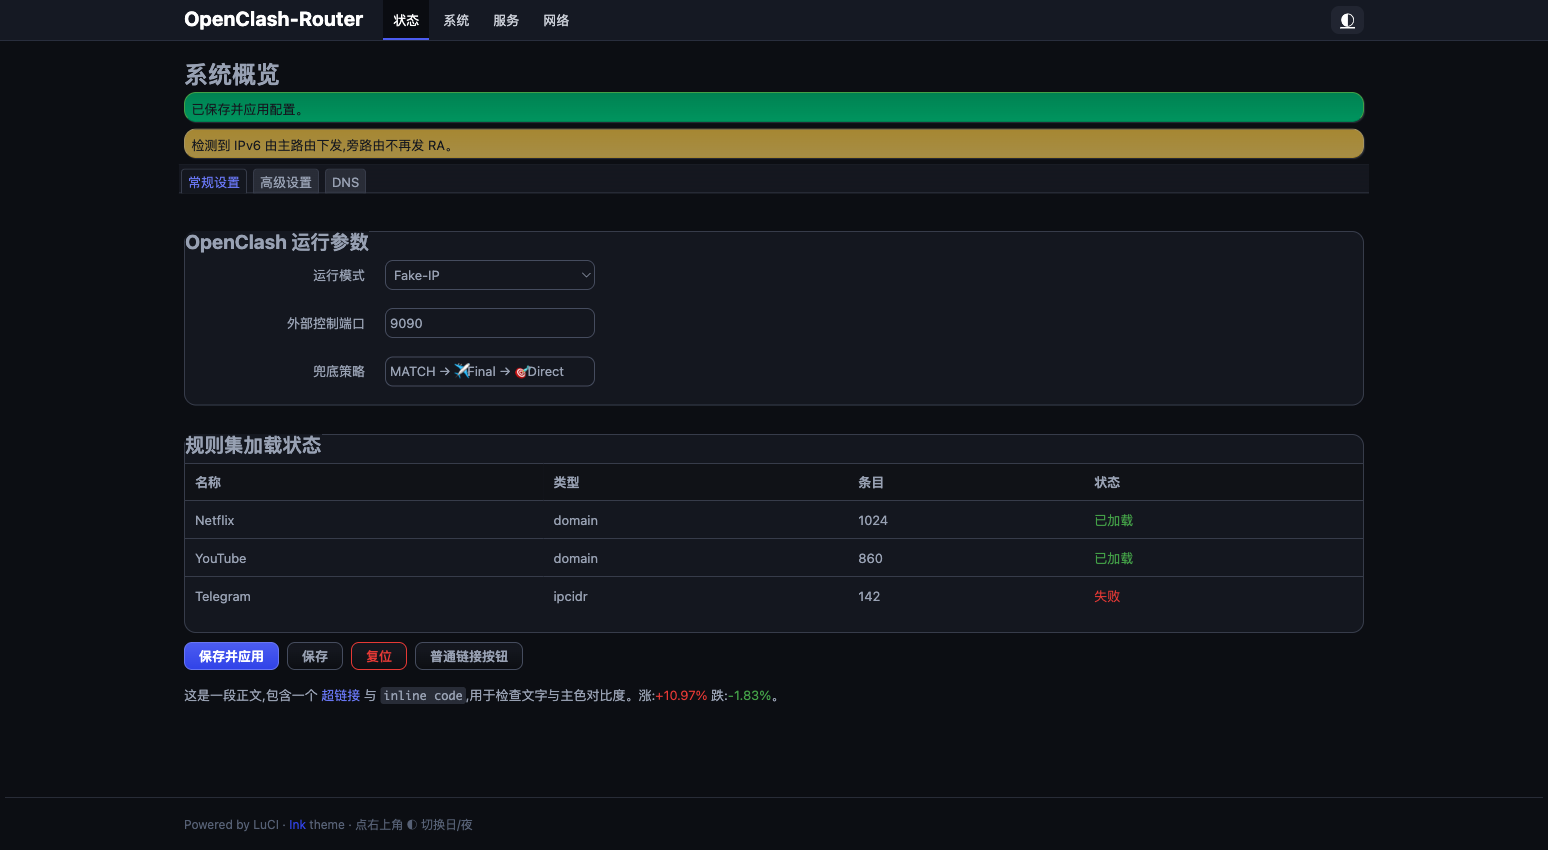
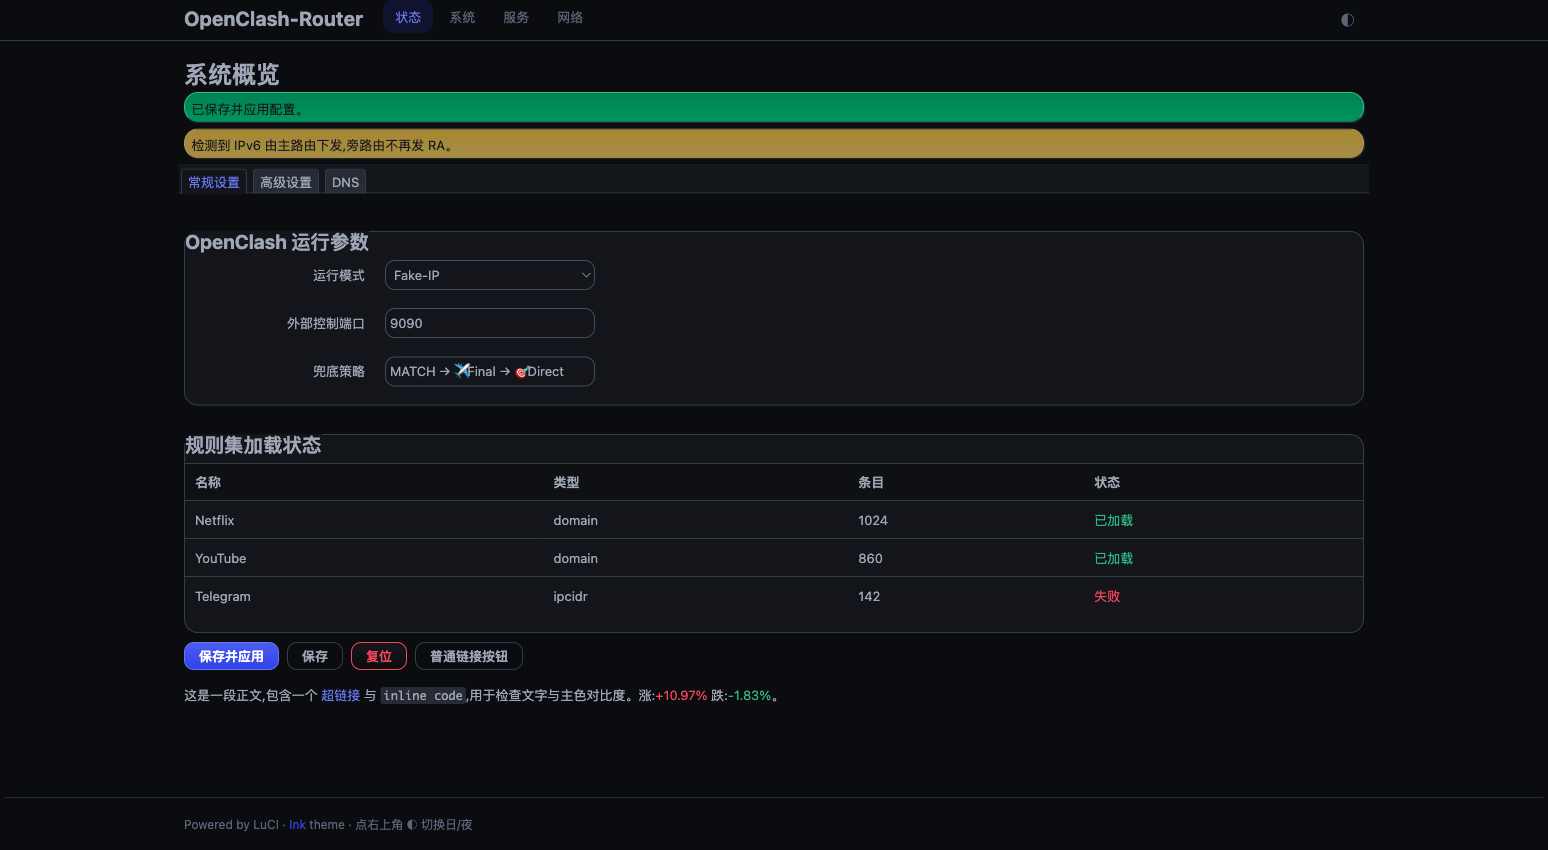
style: 对齐真实 PanWatch —— 顶栏融入页面、导航药丸选中、近黑微蓝暗色、幽灵次按钮、更大圆角

diff --git a/luci-theme-ink/htdocs/luci-static/ink/cascade.css b/luci-theme-ink/htdocs/luci-static/ink/cascade.css
@@ -2686,18 +2686,18 @@ body[data-page='admin-status-overview'] .cbi-title .label.notice:hover {
   --primary-color-low: hsl(234 82% 49%);
   --on-primary-color: #fff;
 
-  /* PanWatch red-up / green-down semantics */
-  --success-color-high-rgb: 67, 160, 71;
-  --success-color-high: #43a047;
-  --success-color-medium: #3d9142;
-  --success-color-low: #35803a;
-  --error-color-high-rgb: 229, 57, 53;
-  --error-color-high: #e53935;
-  --error-color-medium: #d5322e;
-  --error-color-low: #c22b27;
+  /* semantic: green = ok / red = error (standard router UI) */
+  --success-color-high-rgb: 46, 189, 133;
+  --success-color-high: #2ebd85;
+  --success-color-medium: #27a976;
+  --success-color-low: #1f8f63;
+  --error-color-high-rgb: 246, 70, 93;
+  --error-color-high: #f6465d;
+  --error-color-medium: #e23a50;
+  --error-color-low: #c92f44;
 
-  --ink-radius: 12px;
-  --ink-radius-sm: 8px;
+  --ink-radius: 14px;
+  --ink-radius-sm: 10px;
 
   color-scheme: light;
   --font-sans: -apple-system, BlinkMacSystemFont, "PingFang SC", "Hiragino Sans GB", "Microsoft YaHei", "Segoe UI", Roboto, Helvetica, Arial, sans-serif;
@@ -2705,21 +2705,21 @@ body[data-page='admin-status-overview'] .cbi-title .label.notice:hover {
 }
 
 :root[data-darkmode="true"] {
-  /* deep navy: high = card (~10%), low = page (~6%) */
+  /* near-black w/ faint blue: card (~9%) raised over page (~5%) — PanWatch dark */
   --background-color-delta-l-sign: -1;
-  --background-color-h: 224;
-  --background-color-s: 20%;
-  --background-color-l: 10%;
+  --background-color-h: 222;
+  --background-color-s: 16%;
+  --background-color-l: 9%;
 
   --text-color-delta-l-sign: -1;
   --text-color-h: 220;
-  --text-color-s: 15%;
-  --text-color-l: 90%;
+  --text-color-s: 14%;
+  --text-color-l: 92%;
 
   --border-color-delta-l-sign: 1;
-  --border-color-h: 224;
-  --border-color-s: 15%;
-  --border-color-l: 12%;
+  --border-color-h: 222;
+  --border-color-s: 14%;
+  --border-color-l: 11%;
 
   --primary-color-high: hsl(234 85% 68%);
   --primary-color-medium: hsl(234 85% 62%);
@@ -2762,27 +2762,47 @@ input:focus, select:focus, textarea:focus {
   box-shadow: 0 0 0 3px hsl(234 85% 55% / .18);
 }
 
-/* clean deep-navy top bar (consistent in both modes) — PanWatch signature */
+/* minimal top bar that BLENDS with the page (PanWatch signature) */
 header {
-  background: hsl(224 24% 11%) !important;
+  background: var(--background-color-low) !important;
   background-image: none !important;
-  border-bottom: 1px solid hsl(224 20% 20%);
+  border-bottom: 1px solid var(--border-color-medium);
   box-shadow: none;
 }
-header .brand { color: #fff; font-weight: 700; letter-spacing: .2px; }
-header .nav > li > a, header #indicators > * { color: hsl(220 14% 82%); }
-header .nav > li > a:hover { color: #fff; background: hsl(224 20% 16%); }
+header .brand { color: var(--text-color-high); font-weight: 700; letter-spacing: .2px; }
+header .nav > li > a, header #indicators > * { color: var(--text-color-medium); }
+header .nav > li > a {
+  border-radius: var(--ink-radius-sm);
+  padding: 7px 12px;
+  transition: background-color .15s ease, color .15s ease;
+}
+header .nav > li > a:hover { color: var(--text-color-high); background: var(--background-color-medium); }
+/* active nav = soft indigo pill, NOT underline */
 header .nav > li.active > a {
-  color: #fff;
-  box-shadow: inset 0 -2px 0 var(--primary-color-medium);
+  color: var(--primary-color-high);
+  background: hsl(234 85% 55% / .14);
+  box-shadow: none;
 }
 
-/* main tabs: indigo active underline */
+/* main tabs: pill-ish, indigo active */
 .cbi-tabmenu li.cbi-tab a, .tabs li a { border-radius: var(--ink-radius-sm) var(--ink-radius-sm) 0 0; }
 .cbi-tabmenu li.cbi-tab-active a, .tabs li.active a { color: var(--primary-color-high); }
 
 /* links */
 a { color: var(--primary-color-high); }
+
+/* secondary / ghost buttons: outlined, transparent (PanWatch 刷新/扫描) */
+.btn:not(.cbi-button-action):not(.cbi-button-apply):not(.cbi-button-positive):not(.cbi-button-negative):not(.important),
+.cbi-button:not(.cbi-button-action):not(.cbi-button-apply):not(.cbi-button-positive):not(.cbi-button-negative):not(.important) {
+  background: transparent;
+  border: 1px solid var(--border-color-medium);
+  color: var(--text-color-high);
+}
+.btn:not(.cbi-button-action):not(.cbi-button-apply):not(.important):hover,
+.cbi-button:not(.cbi-button-action):not(.cbi-button-apply):not(.important):hover {
+  background: var(--background-color-medium);
+  border-color: var(--border-color-high);
+}
 
 /* in-page day/night toggle button */
 .ink-dark-toggle {
@@ -2791,7 +2811,7 @@ a { color: var(--primary-color-high); }
   line-height: 1;
   padding: 6px 9px;
   border-radius: var(--ink-radius-sm);
-  color: hsl(220 14% 82%);
+  color: var(--text-color-medium);
   text-decoration: none;
 }
-.ink-dark-toggle:hover { color: #fff; background: hsl(224 20% 16%); }
+.ink-dark-toggle:hover { color: var(--text-color-high); background: var(--background-color-medium); }
